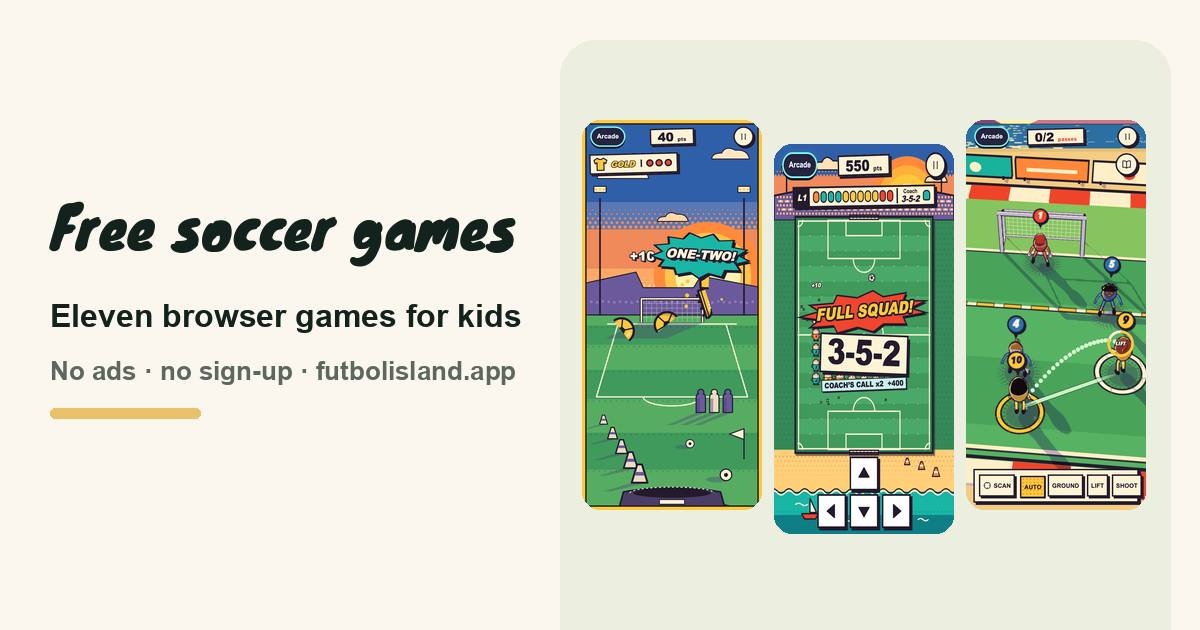
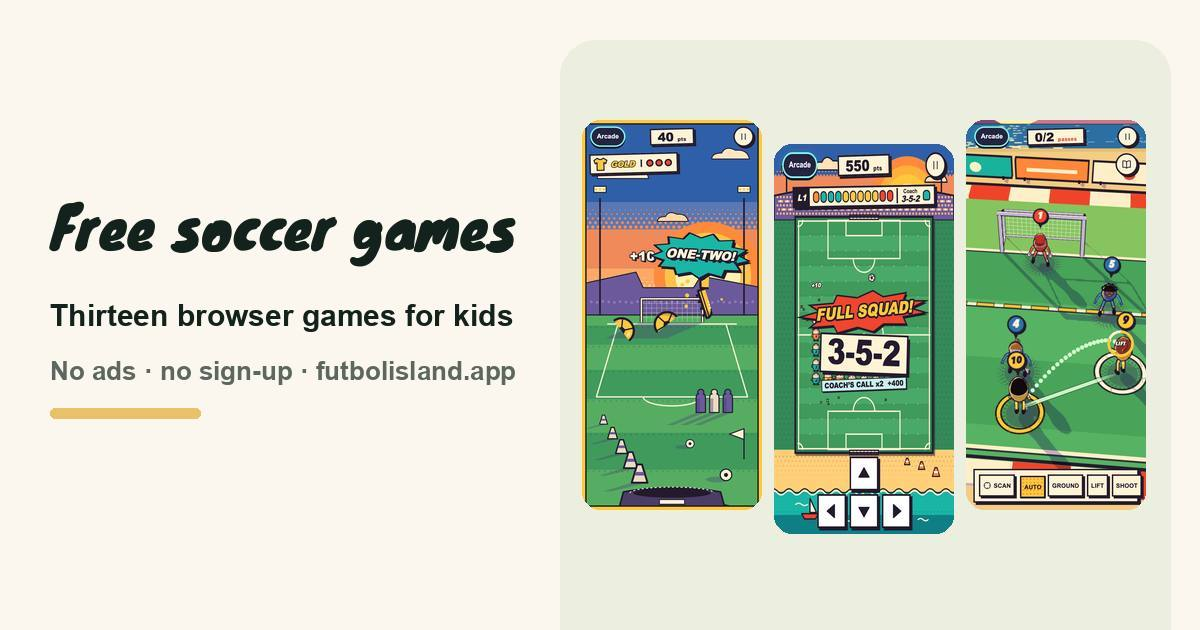
Arcade room: vending machine into the south-east corner so Hold the Line and its player stay in view; hub share picture says thirteen
Seen in the room screenshots: the vending machine (12,8) hid Hold the Line and a player standing at it from the room camera. It
moves to 12.6,9.6 (collider and the multiplayer area too) and Hold the Line to z 5.2 (0.69 m between the two cabinets). The /games
share picture's line reads "Thirteen browser games for kids"; build-game-images.py counts the two wall games.

Changed region(s): [[0.0308, 0.4825, 0.4317, 0.5429]]

diff --git a/lib/arcade/arcadeRoomProps.ts b/lib/arcade/arcadeRoomProps.ts
@@ -62,7 +62,7 @@ export function createArcadeRoomProps(scene:T.Scene){
  box(-12,2.96,8.15,1.5,.055,.07,ink);
  const claw=animated('arcade-claw-carriage',()=>{box(-12,2.95,8.15,.22,.1,.18,cream);tube(-12,2.62,8.15,.025,.62,cream);ball(-12,2.3,8.15,.09,ink);for(const x of [-12.13,-11.87])box(x,2.18,8.15,.045,.22,.045,cream);});
  box(-12,.75,8.89,.6,.38,.06,ink);box(-12,1.18,8.99,2.1,.17,.4,cream);tube(-12.4,1.37,8.98,.055,.25,ink);ball(-12.4,1.49,8.98,.1,coral);tube(-11.6,1.3,8.98,.1,.04,teal);sign('CLAW CLUB','BEAN BUDDIES',-12,3.17,8.94,2,.48);
- place(12,8,12,8,-Math.PI/3);
+ place(12,8,12.6,9.6,-Math.PI/3);/* Nov 21 2026: moved 1.7 m toward the south-east corner (was 12,8) so it no longer hides the east wall machines or a player standing at Hold the Line from the room camera */
  // Vending machine: readable bottles, selection buttons, lower collection tray.
  box(12,1.55,8,2,3.1,1.55,teal);box(11.72,1.85,8.81,1.15,1.75,.08,ink);box(12,.47,8.81,1.55,.48,.09,ink);
  for(let row=0;row<3;row++)for(let col=0;col<3;col++){const x=11.32+col*.38,y=1.24+row*.51;box(x,y,8.89,.2,.32,.12,col===1?coral:cream);tube(x,y+.2,8.89,.045,.08,gold);}for(let i=0;i<4;i++)box(12.68,1.48+i*.28,8.82,.19,.13,.1,gold);sign('REFRESH','TAKE A BREATHER',12,2.88,8.83,1.75,.45);
@@ -95,7 +95,7 @@ export function createArcadeRoomProps(scene:T.Scene){
  const attendant=createPlayer('arcade-prize-attendant','neutral',true,true);attendant.root.name='arcade-prize-attendant';attendant.setProfile(profileFor('npc',82));const look=defaultBeanLookFor('arcade-prize-attendant');attendant.setBeanLook(look,{...DEFAULT_CASUAL_OUTFIT,shirt:cream,shirt2:teal});root.add(attendant.root);
  const motion:PlayerMotion={travelMode:'walk',facing:-Math.PI/3,lookX:10,lookZ:-2,lookY:1.4,ready:.2};attendant.update(attendantPosition.x,attendantPosition.z,0,0,false,motion);
  let attentive=false;let disposed=false,social:SocialRoutine|null=null,socialAge=-1;const socialPose=createSocialPose();
- const colliders:ArcadePropCollider[]=[...gashaMachines.map(m=>({x:m.x,z:m.z,halfX:GASHA_STYLE_SIZE[gashaStyleOf(m)].w/2+.03,halfZ:GASHA_STYLE_SIZE[gashaStyleOf(m)].d/2+.03,yaw:m.yaw}))/* each body style its own size (Nov 10 2026) */,{x:counterPosition.x,z:counterPosition.z,halfX:2.75,halfZ:.75,yaw:-Math.PI/3},{x:shelfPosition.x,z:shelfPosition.z,halfX:2.85,halfZ:.55,yaw:-Math.PI/3},{x:-10,z:-1,halfX:1.55,halfZ:2.4},{x:-12,z:8,halfX:1.615,halfZ:1.596},{x:12,z:8,halfX:1.374,halfZ:1.428}];
+ const colliders:ArcadePropCollider[]=[...gashaMachines.map(m=>({x:m.x,z:m.z,halfX:GASHA_STYLE_SIZE[gashaStyleOf(m)].w/2+.03,halfZ:GASHA_STYLE_SIZE[gashaStyleOf(m)].d/2+.03,yaw:m.yaw}))/* each body style its own size (Nov 10 2026) */,{x:counterPosition.x,z:counterPosition.z,halfX:2.75,halfZ:.75,yaw:-Math.PI/3},{x:shelfPosition.x,z:shelfPosition.z,halfX:2.85,halfZ:.55,yaw:-Math.PI/3},{x:-10,z:-1,halfX:1.55,halfZ:2.4},{x:-12,z:8,halfX:1.615,halfZ:1.596},{x:12.6,z:9.6,halfX:1.374,halfZ:1.428}];
  // Triangle reflection gives exact table-edge bounces; paddles arrive at each
  // interception point before the puck instead of orbiting independently.
  const reflect=(phase:number)=>1-Math.abs(((phase%4)+4)%4-2);

diff --git a/lib/arcade/arcadeCatalog.ts b/lib/arcade/arcadeCatalog.ts
@@ -35,13 +35,13 @@ export const arcadeCabinets = [
  // Nov 17 2026: Ball Blaster, the football gallery shooter (docs/arcade-aaa/ballblaster-direction.md), after Roll It In at the east end of the row (Nov 18 2026: it took over a retired cabinet's place).
  {id:'ballblaster',name:'Ball Blaster',short:'BALL BLASTER',lesson:'Pick your target. Strike through the ball.',color:'#f0452e',...rowSpot('ballblaster')},
  // Nov 21 2026 (owner: "go ahead and push everything else"): the two new games stand against the EAST wall, between the prize counter and
- // the vending machine (the back row is full). Same upright cabinet as the row, turned like the counter and the vending machine
+ // the vending machine (the back row is full; the vending machine moved 1.7 m into the south-east corner so it hides neither). Same upright cabinet as the row, turned like the counter and the vending machine
  // (yaw -60 degrees: they face the aisle and lean toward the room camera) and staggered so the bodies do not touch. Spots measured
  // against the room's colliders (tests/arcade-room-crowd.cjs "east wall"): Keepy-Uppy Beat, the juggling rhythm game
  // (docs/arcade-aaa/keepyuppy-direction.md), next to the counter; Hold the Line, the defending game
  // (docs/arcade-aaa/holdtheline-direction.md), toward the vending machine.
  {id:'keepyuppy',name:'Keepy-Uppy Beat',short:'KEEPY-UPPY',lesson:'Soft touches. Both feet. Find the rhythm.',color:'#ffc83a',x:11.75,z:2.85,yaw:-Math.PI/3},
- {id:'holdtheline',name:'Hold the Line',short:'HOLD THE LINE',lesson:'Step up together. Catch them offside.',color:'#f0452e',x:12.85,z:4.85,yaw:-Math.PI/3},
+ {id:'holdtheline',name:'Hold the Line',short:'HOLD THE LINE',lesson:'Step up together. Catch them offside.',color:'#f0452e',x:12.85,z:5.2,yaw:-Math.PI/3},
 ] as const;
 export type ArcadeCabinetId=typeof arcadeCabinets[number]['id'];
 /** Nov 21 2026: games that can be played (deep link /arcade?game=<id>) but have NO machine in the room yet wait here for the

diff --git a/lib/multiplayer/rooms/arcade.ts b/lib/multiplayer/rooms/arcade.ts
@@ -56,7 +56,7 @@ export const ARCADE_ROOM:RoomDescriptor={
   {id:'prize-counter',kind:'counter',x:counter.x,z:counter.z,r:1.2,label:'At the prize counter'},
   {id:'air-hockey',kind:'table',x:-10,z:-1,r:2.4,label:'Watching air hockey'},
   {id:'claw',kind:'machine',x:-12,z:8,r:1.6,label:'At the claw machine'},
-  {id:'vending',kind:'machine',x:12,z:8,r:1.4,label:'At the drinks machine'},
+  {id:'vending',kind:'machine',x:12.6,z:9.6,r:1.4,label:'At the drinks machine'},
   {id:'lounge-north',kind:'lounge',x:-13,z:-6,r:2,label:'Sitting in the lounge'},
   {id:'lounge-south',kind:'lounge',x:-13,z:2.5,r:2,label:'Sitting in the lounge'},
   {id:'door',kind:'door',x:0,z:12,r:2.1,label:'At the door'},

diff --git a/docs/seo/build-game-images.py b/docs/seo/build-game-images.py
@@ -29,16 +29,17 @@ GAMES = [
  # Nov 17 2026: Ball Blaster, the shooting game, shot from real drag-and-release play on a 390x844 phone (DPR 2).
  ('ball-blaster-soccer-shooting-game', ['ballblaster-phone', 'ballblaster-aim'], ['ball-blaster-soccer-shooting-game', 'ball-blaster-aim-and-curl'], 'Ball Blaster', 'Free soccer shooting game'),
 ]
-# Nov 21 2026: games with a page but no machine in the room yet (lib/arcade/arcadeCatalog.ts arcadeUnplaced): only the share
-# picture is made (their page pictures are gameplay stills in public/games/shots), at a lower JPEG quality so public/games stays
-# under its cap (tests/seo-games.cjs), and they are NOT counted on the hub picture. Move an entry up into GAMES when it is placed.
-UNPLACED = [
+# Nov 21 2026: Keepy-Uppy Beat and Hold the Line, placed on the arcade room's east wall the same day (thirteen machines): only the
+# share picture is made here (their page pictures are gameplay stills in public/games/shots), at a lower JPEG quality so public/games
+# stays under its cap (tests/seo-games.cjs). They count on the hub picture (COUNT below).
+WALL = [
  ('keepy-uppy-beat-soccer-juggling-game', ['keepyuppy-park', 'keepyuppy-cup'], [], 'Keepy-Uppy Beat', 'Free soccer juggling game', 56),
  ('hold-the-line-soccer-defending-game', ['holdtheline-offside', 'holdtheline-night'], [], 'Hold the Line', 'Free soccer defending game', 50),
 ]
 # One entry per arcade cabinet, so the hub picture's count follows the list (Nov 18 2026: eleven after the arcade swap).
 WORDS = ['zero', 'one', 'two', 'three', 'four', 'five', 'six', 'seven', 'eight', 'nine', 'ten', 'eleven', 'twelve', 'thirteen', 'fourteen', 'fifteen']
-COUNT = WORDS[len(GAMES)] if len(GAMES) < len(WORDS) else str(len(GAMES))
+N = len(GAMES) + len(WALL)
+COUNT = WORDS[N] if N < len(WORDS) else str(N)
 def shot(n): return Image.open(f'{SRC}/{n}.png').convert('RGB')
 def rounded(im, r):
     m = Image.new('L', im.size, 0); ImageDraw.Draw(m).rounded_rectangle([0, 0, im.width - 1, im.height - 1], r, fill=255); im = im.convert('RGBA'); im.putalpha(m); return im
@@ -73,10 +74,10 @@ for file, shots, outs, name, line in GAMES:
         im = shot(s); w = 960 if im.width > im.height else 480
         im.resize((w, round(im.height * w / im.width)), Image.LANCZOS).save(f'{OUT}/{o}.webp', quality=74, method=6)
     og(file, shots, name, line)
-for file, shots, outs, name, line, q in UNPLACED:
+for file, shots, outs, name, line, q in WALL:
     if ONLY and not any(file.startswith(o) for o in ONLY): continue
     og(file, shots, name, line, q)
-# the hub: three games side by side (skipped when only unplaced games were asked for: `keepy-uppy`)
+# the hub: three games side by side (skipped when only the wall games were asked for: `keepy-uppy`)
 if ONLY and not any(f.startswith(o) for o in ONLY for f, *_ in GAMES) and 'hub' not in ONLY: sys.exit(0)
 c = Image.new('RGB', (1200, 630), PAPER); d = ImageDraw.Draw(c); d.rounded_rectangle([560, 40, 1170, 700], 36, fill=TINT)
 for i, s in enumerate(['kitrush-phone', 'snake-fullsquad', 'puzzle-phone']):
